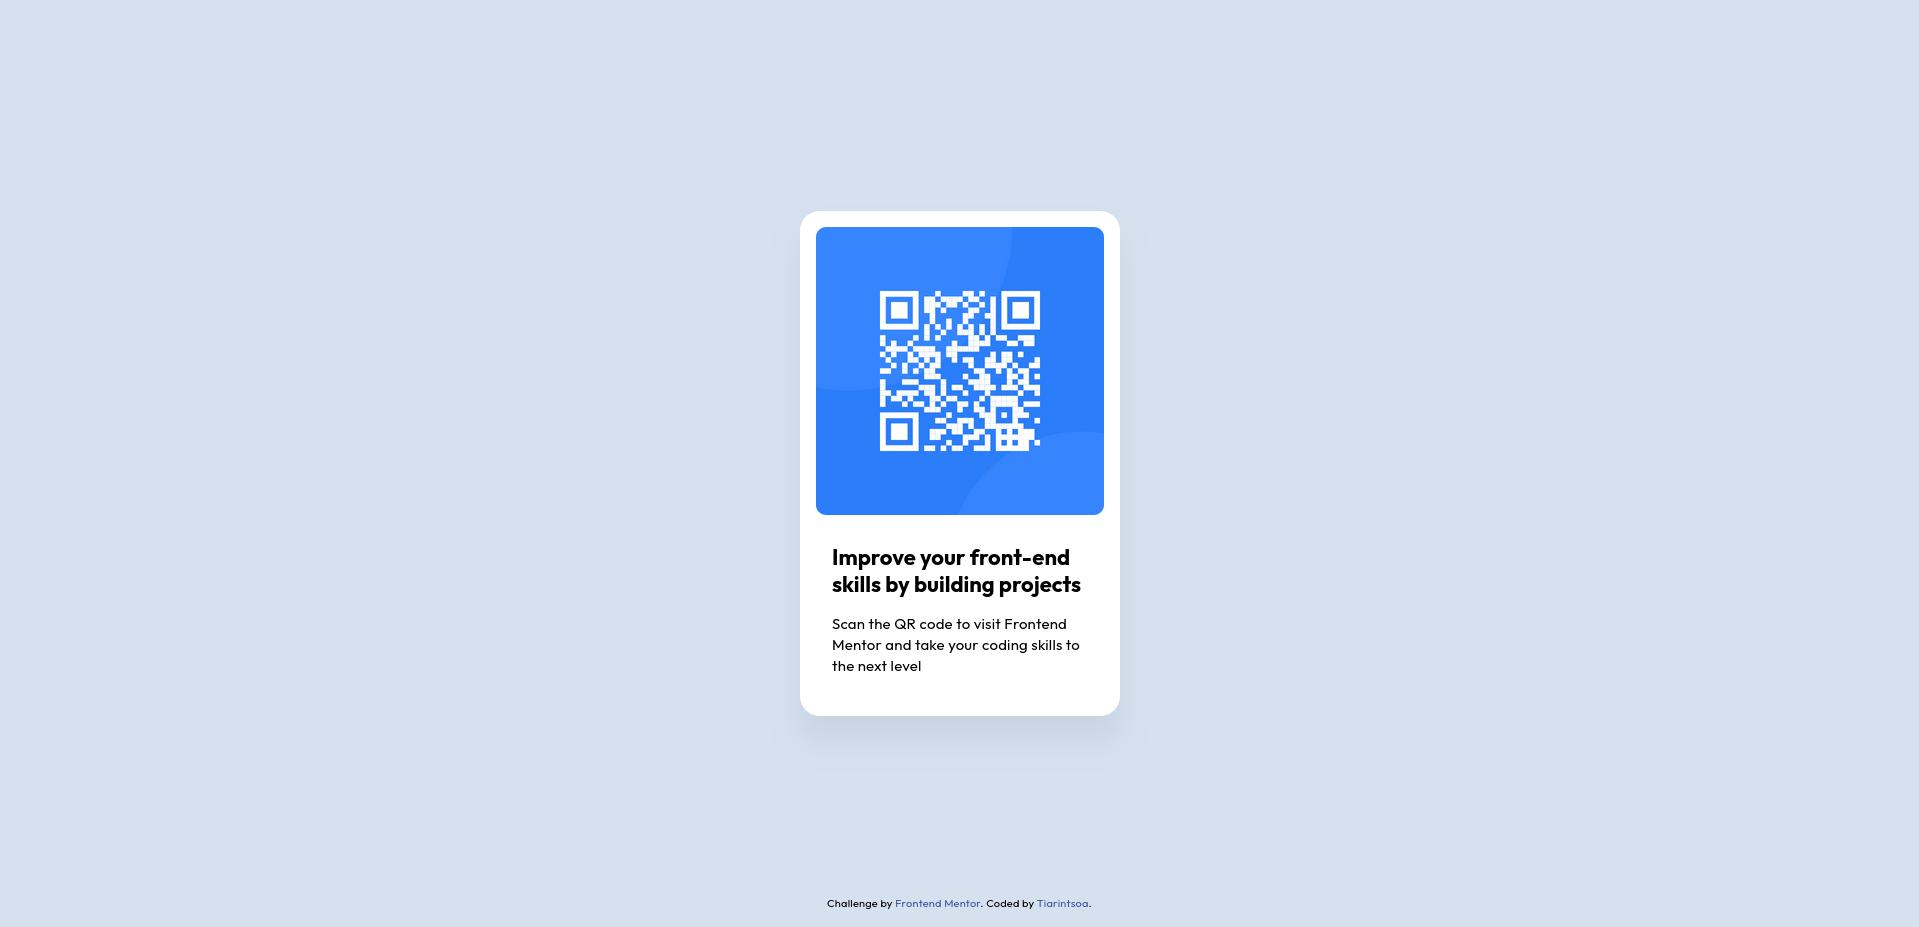
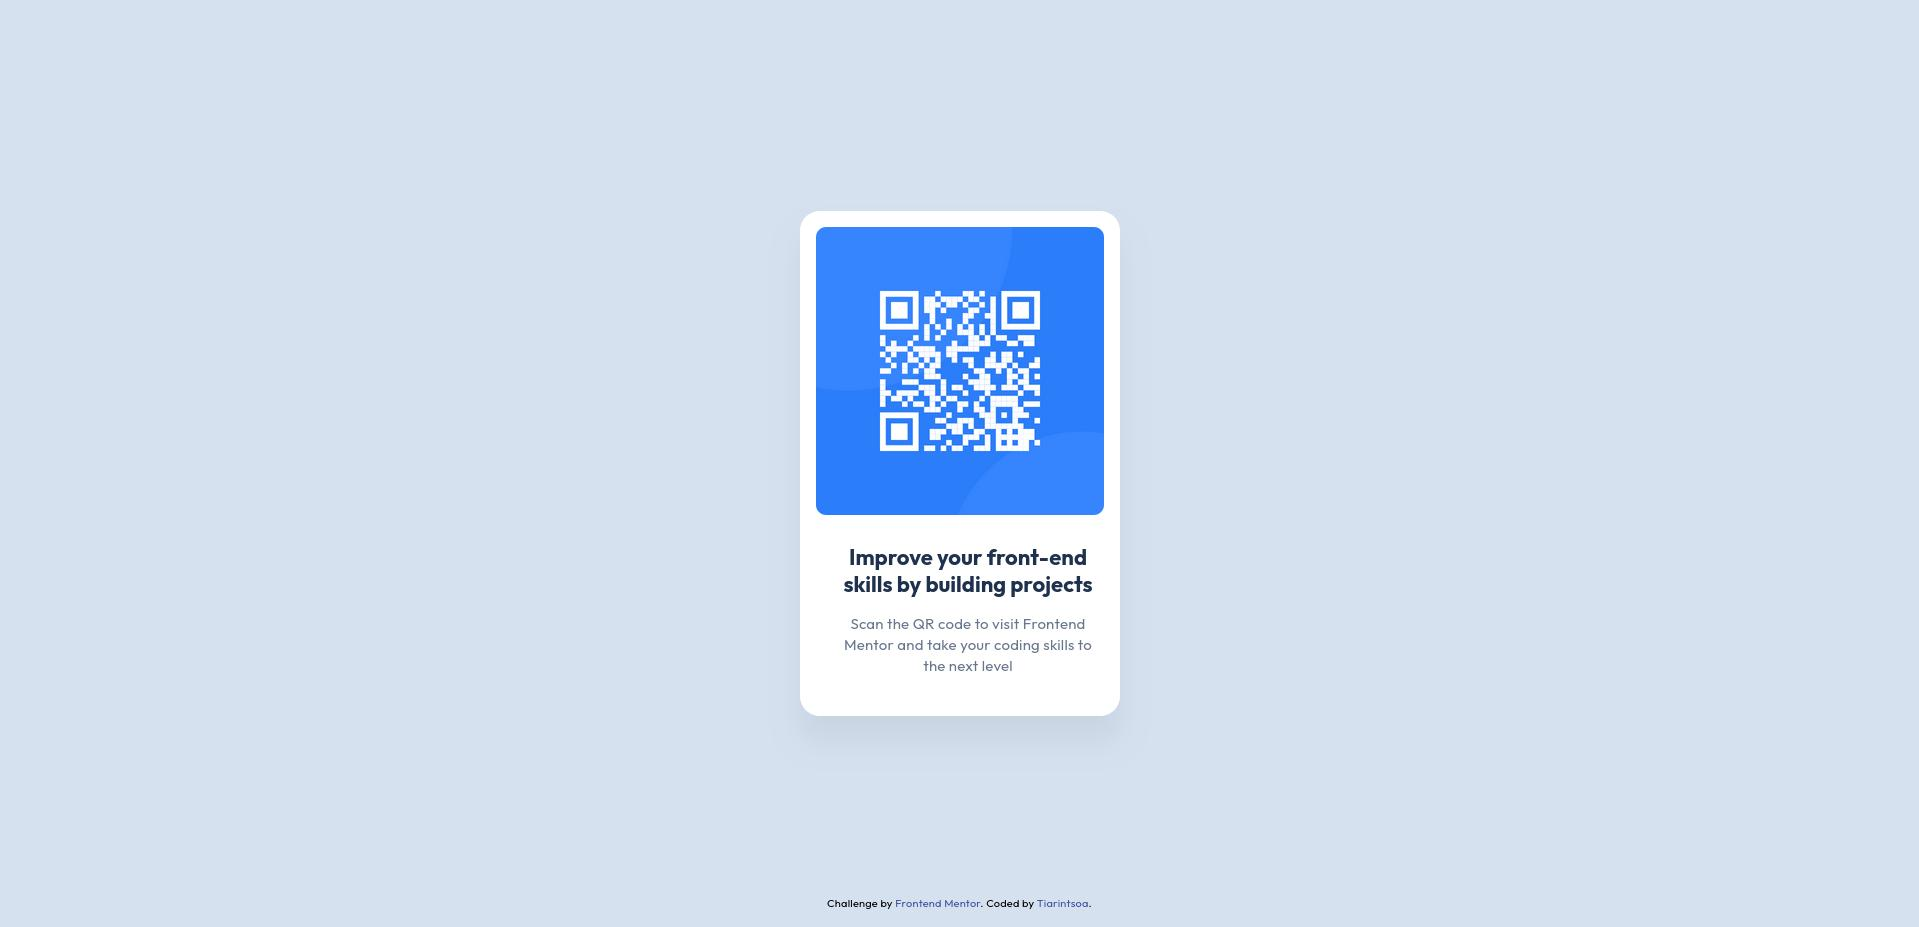
Text color fixed

Changed region(s): [[0.4304, 0.5739, 0.5842, 0.7249]]

diff --git a/style.css b/style.css
@@ -98,6 +98,7 @@ body {
 .card-content {
     -webkit-padding-start: var(--small-spacing);
     padding-inline-start: var(--small-spacing);
+    text-align: center;
 }
 
 .card-content h1 {
@@ -106,6 +107,11 @@ body {
     line-height: 1.2;
     letter-spacing: 0;
     font-weight: bold;
+    color: var(--navy);
+}
+
+.card-content p {
+    color: var(--grey);
 }
 
 .attribution {
